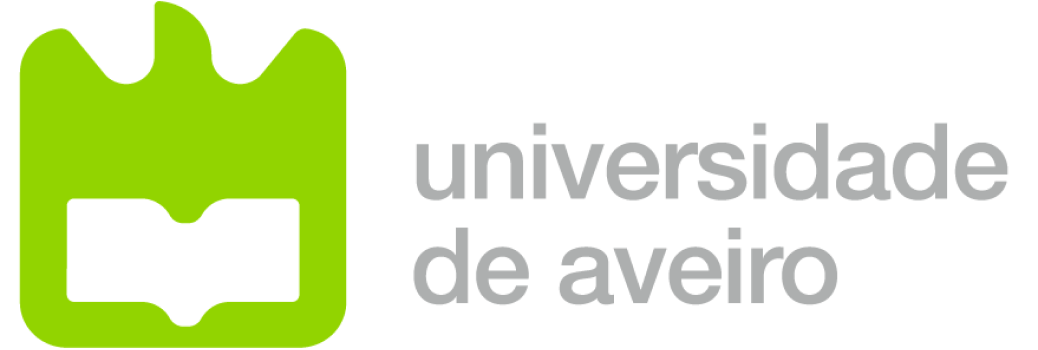
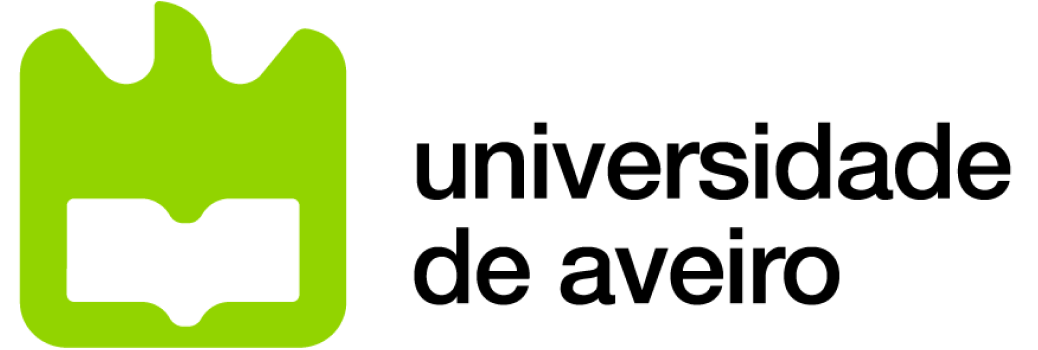
updating light mode

Changed region(s): [[0.4008, 0.3429, 0.9865, 0.5714], [0.4008, 0.6286, 0.8324, 0.8857]]

diff --git a/frontend/src/components/Graph/GraphComponent.js b/frontend/src/components/Graph/GraphComponent.js
@@ -164,7 +164,7 @@ const GraphComponent = () => {
                             categories: months,
                             labels: {
                                 style: {
-                                    color: '#fff',
+                                    color: '#616D7B',
                                     fontSize: '14px',
                                 },
                             },
@@ -174,20 +174,20 @@ const GraphComponent = () => {
                                 text: yAxisTitle,
                                 x: -10,
                                 style: {
-                                    color: '#fff',
+                                    color: '#616D7B',
                                     fontSize: '14px',
                                     fontFamily: 'Epilogue',
                                 },
                             },
                             labels: {
                                 style: {
-                                    color: '#fff',
+                                    color: '#616D7B',
                                     fontSize: '14px',
                                     fontFamily: 'Epilogue',
                                 },
                             },
                             // tickInterval: 5,
-                            gridLineColor: '#373C41',
+                            gridLineColor: 'rgb(217, 223, 228)',
                             gridLineWidth: 1.5,
                             min: Math.floor(minValue) === 0 ? 0 : Math.floor(minValue) - 1,
                             max: Math.floor(maxValue) + 1,
@@ -217,10 +217,12 @@ const GraphComponent = () => {
                             },
                             backgroundColor: '#fff',
                             borderRadius: 5,
+                            borderWidth: 2,
+                            borderColor: 'rgb(217, 223, 228)',
                             padding: 10,
                             shadow: false,
                             style: {
-                                color: 'rgb(39, 49, 57)',
+                                color: 'rgb(44, 44, 54)',
                                 fontSize: '12px',
                             }
                         },

diff --git a/frontend/src/pages/AboutProject/AboutProject.js b/frontend/src/pages/AboutProject/AboutProject.js
@@ -1,10 +1,10 @@
 import React from 'react';
 import styles from './AboutProject.module.css';
-import fct_dark from "../../assets/fct-dark.png";
-import pt_dark from "../../assets/pt-dark.png";
-import ua_dark from "../../assets/ua-dark.png";
-import cesam_dark from "../../assets/cesam-dark.png";
-import dfis_dark from "../../assets/dfis-dark.png";
+import fct from "../../assets/fct-light.png";
+import pt from "../../assets/pt-light.png";
+import ua from "../../assets/ua-light.png";
+import cesam from "../../assets/cesam-light.png";
+import dfis from "../../assets/dfis-light.png";
 import { useTranslation } from 'react-i18next';
 
 const AboutProject = () => {
@@ -42,13 +42,13 @@ const AboutProject = () => {
       </div>
       <div className={styles.logos}>
         <div className={styles.logosLeft}>
-          <img src={cesam_dark} alt="Centro de Estudos do Ambiente e do Mar" style={{ height: '98px', width: 'auto' }} />
-          <img src={dfis_dark} alt="Departamento de Física" style={{ height: '108px', width: 'auto' }} />
-          <img src={ua_dark} alt="Universidade de Aveiro" style={{ height: '50px', width: 'auto' }} />
+          <img src={cesam} alt="Centro de Estudos do Ambiente e do Mar" style={{ height: '98px', width: 'auto' }} />
+          <img src={dfis} alt="Departamento de Física" style={{ height: '108px', width: 'auto' }} />
+          <img src={ua} alt="Universidade de Aveiro" style={{ height: '50px', width: 'auto' }} />
         </div>
         <div className={styles.logosRight}>
-          <img src={fct_dark} alt="Fundação para a Ciência e a Tecnologia" style={{ height: '50px', width: 'auto' }} />
-          <img src={pt_dark} alt="República Portuguesa" style={{ height: '50px', width: 'auto' }} />
+          <img src={fct} alt="Fundação para a Ciência e a Tecnologia" style={{ height: '50px', width: 'auto' }} />
+          <img src={pt} alt="República Portuguesa" style={{ height: '50px', width: 'auto' }} />
         </div>
       </div>
 

diff --git a/frontend/src/components/Map/LeafletMap.js b/frontend/src/components/Map/LeafletMap.js
@@ -124,7 +124,7 @@ const LegendControl = ({ variable, url, variableKey }) => {
       const legendUrl = `${url}?REQUEST=GetLegendGraphic&LAYER=${variableKey}&PALETTE=${palette}&STYLES=${styles}&COLORSCALERANGE=${colorScaleRange}`;
 
       // Set the image as the legend
-      div.innerHTML += `<img src="${legendUrl}" alt="legend" style="height: ${isMobile ? '200px' : '220px'}; padding: 5px; background-color: white !important; border-radius: 5px;"/>`;
+      div.innerHTML += `<img src="${legendUrl}" alt="legend" style="height: ${isMobile ? '220px' : '240px'}; padding: 5px; background-color: white !important; border-radius: 5px;"/>`;
       return div;
     };
 
@@ -143,7 +143,7 @@ const CustomZoomControl = () => {
 
   useEffect(() => {
     const zoomControl = L.control.zoom({
-      position: 'topleft', // or customize placement
+      position: 'topleft',
     });
 
     map.addControl(zoomControl);
@@ -158,7 +158,10 @@ const CustomZoomControl = () => {
     // Apply custom styles
     zoomIn.style.cssText = `
       background-color: #fff !important;
-      color: rgb(39, 49, 57) !important;
+      color: rgb(44, 44, 54) !important;
+      background-color: #fff !important;
+      box-shadow: 0px 0px 6px rgba(0, 0, 0, 0.2) !important;
+      border: 1px solid #D9DFE4 !important;
       border-radius: 5px;
       font-size: 20px;
       margin: 5px;
@@ -166,7 +169,10 @@ const CustomZoomControl = () => {
 
     zoomOut.style.cssText = `
       background-color: #fff !important;
-      color: rgb(39, 49, 57) !important;
+      color: rgb(44, 44, 54) !important;
+      background-color: #fff !important;
+      box-shadow: 0px 0px 6px rgba(0, 0, 0, 0.2) !important;
+      border: 1px solid #D9DFE4 !important;
       border-radius: 5px;
       font-size: 20px;
       margin: 5px;

diff --git a/frontend/src/components/RadioOption/RadioOption.module.css b/frontend/src/components/RadioOption/RadioOption.module.css
@@ -10,7 +10,7 @@
 }
 
 .radioLabel {
-    color: #fff;
+    color: #2C2C36;
     font-size: 16px;
     font-weight: 400;
     display: flex;
@@ -21,8 +21,8 @@
 .customRadio {
     min-height: 20px;
     min-width: 20px;
-    border: 2px solid #fff;
-    /* background-color: rgb(39, 49, 57, 0.5); */
+    border: 2px solid #2C2C36;
+    /* background-color: #fff; */
     border-radius: 50%;
     margin-right: 10px;
     position: relative;
@@ -30,7 +30,7 @@
 }
 
 .radioInput:checked+.radioLabel .customRadio {
-    border-color: #fff;
+    border-color: #2C2C36;
 }
 
 .radioInput:checked+.radioLabel .customRadio::before {
@@ -42,7 +42,7 @@
     height: 10px;
     width: 10px;
     border-radius: 50%;
-    background-color: #fff;
+    background-color: #2C2C36;
 }
 
 @media (max-width: 768px) {
@@ -54,7 +54,7 @@
         min-height: 16px;
         min-width: 16px;
         margin-right: 8px;
-        border: 1px solid #fff;
+        border: 1px solid #2C2C36;
     }
 
     .radioOption {

diff --git a/frontend/src/components/Graph/GraphComponent.module.css b/frontend/src/components/Graph/GraphComponent.module.css
@@ -33,7 +33,7 @@
 }
 
 .chartTitle {
-    color: #fff;
+    color: rgb(44, 44, 54);
     font-size: 16px;
     font-weight: 500;
     text-align: center;
@@ -43,7 +43,7 @@
 }
 
 .chartSubtitle {
-    color: #9EAAB9;
+    color: #616D7B;
     font: 16px 'Epilogue';
     text-align: center;
     margin-bottom: 40px;
@@ -55,7 +55,7 @@
     display: flex;
     flex-direction: column;
     align-items: center;
-    background-color: rgb(39, 49, 57, 0.5);
+    background-color: rgb(217, 223, 228, 0.4);
     padding: 20px 24px;
     border-radius: 10px;
     margin-bottom: 40px;
@@ -73,7 +73,7 @@
     display: flex;
     flex-direction: row;
     align-items: center;
-    color: #fff;
+    color: #2C2C36;
     font: 14px 'Epilogue';
     font-weight: 400;
     text-align: justify;
@@ -82,7 +82,7 @@
 
 .chartDescriptionExample {
     width: 100%;
-    color: #9EAAB9;
+    color: #616D7B;
     font: 12px 'Epilogue';
     font-weight: 400;
     text-align: justify;

diff --git a/frontend/src/pages/MainLayout/MainLayout.module.css b/frontend/src/pages/MainLayout/MainLayout.module.css
@@ -15,7 +15,7 @@
 .leftColumn,
 .middleColumn,
 .rightColumn {
-  background-color: rgb(39, 49, 57, 0.5);
+  background-color: #fff;
   border-radius: 10px;
   padding: 20px;
   flex-grow: 1;
@@ -89,7 +89,7 @@
 }
 
 .activeMenuOption {
-  background-color: rgb(39, 49, 57, 0.5);
+  background-color: rgb(217, 223, 228, 0.4);
 }
 
 .menuOptionText {
@@ -99,12 +99,12 @@
 }
 
 .menuOption:hover {
-  background-color: rgb(39, 49, 57, 0.5);
+  background-color: rgb(217, 223, 228, 0.4);
 }
 
 .title {
   margin: 0;
-  color: #9EAAB9;
+  color: #616D7B;
   font-size: 16px;
   font-weight: 500;
   flex-grow: 1;
@@ -118,7 +118,7 @@
 
 .subtext {
   margin: 0;
-  color: #fff;
+  color: #2C2C36;
   font-size: 16px;
   font-weight: 400;
 }
@@ -152,7 +152,7 @@
 }
 
 .backButton:hover {
-  background-color: rgb(39, 49, 57, 0.5);
+  background-color: #fff;
 }
 
 @media (max-width: 768px) {

diff --git a/frontend/src/components/Header/Header.module.css b/frontend/src/components/Header/Header.module.css
@@ -34,7 +34,7 @@
     border: none;
     cursor: pointer;
     font-size: 16px;
-    color: #fff;
+    color: #2C2C36;
     border-radius: 5px;
     transition: background-color 0.3s ease;
     font-family: 'Epilogue';
@@ -44,8 +44,8 @@
 }
 
 .active {
-    background-color: #FFF;
-    color: #2B2B2B;
+    background-color: #2C2C36;
+    color: #fff;
 }
 
 .languageDropdown {
@@ -55,10 +55,11 @@
     padding: 10px 4px 8px 10px;
     border-radius: 5px;
     background: none;
-    color: #fff;
+    color: #2C2C36;
     border: none;
     cursor: pointer;
     font-family: 'Epilogue';
+    font-weight: 500;
     font-size: 16px;
     transition: background-color 0.3s ease;
 }

diff --git a/frontend/src/components/Header/Header.js b/frontend/src/components/Header/Header.js
@@ -5,8 +5,8 @@ import { Link, useLocation } from 'react-router-dom';
 import { useTranslation } from 'react-i18next';
 import styles from './Header.module.css';
 
-import desktopLogo from '../../assets/climact-dark.svg';
-import mobileLogo from '../../assets/climact-dark-mobile.svg'
+import desktopLogo from '../../assets/climact-light.svg';
+import mobileLogo from '../../assets/climact-light-mobile.svg'
 
 const Header = () => {
     const location = useLocation(); // Get the current location

diff --git a/frontend/src/components/VariableSubmenu/Variable.module.css b/frontend/src/components/VariableSubmenu/Variable.module.css
@@ -1,10 +1,10 @@
 .variableSubmenu {
-    color: #9EAAB9;
+    color: #616D7B;
     font-size: 16px;
     height: 100%;
     overflow-y: scroll;
     scrollbar-width: thin;
-    scrollbar-color: #9EAAB9 rgb(39, 49, 57, 0.5);
+    scrollbar-color: #616D7B #fff;
 }
 
 .variableItem {
@@ -24,7 +24,7 @@
 
 .variableOptions {
     margin-top: 10px;
-    /* background-color: rgb(39, 49, 57, 0.5); */
+    /* background-color: #fff; */
     border-radius: 5px;
 }
 

diff --git a/frontend/src/pages/AboutProject/AboutProject.module.css b/frontend/src/pages/AboutProject/AboutProject.module.css
@@ -9,6 +9,7 @@
     width: 100vw;
     margin: 0 auto;
     box-sizing: border-box;
+    color: #2C2C36
 }
 
 @media (max-width: 768px) {
@@ -20,7 +21,7 @@
 .leftColumn {
     width: 25%;
     padding-right: 20px;
-    border-right: 2px solid rgb(39, 49, 57, 0.5);
+    border-right: 2px solid rgb(97, 109, 123, 0.4);
     line-height: 2;
 }
 
@@ -38,7 +39,7 @@
 
 .text {
     line-height: 1.6;
-    color: #fff;
+    color: #2C2C36;
 }
 
 .logos {

diff --git a/frontend/src/App.css b/frontend/src/App.css
@@ -1,7 +1,7 @@
 .App {
   min-height: 100vh;
   max-width: 100vw;
-  background: linear-gradient(180deg, rgb(15, 23, 34) 0%, rgb(20, 20, 45) 20%); 
+  /* background: linear-gradient(180deg, rgb(15, 23, 34) 0%, rgb(20, 20, 45) 20%);  */
 }
 
 *,
@@ -12,7 +12,7 @@
 
 html,
 body {
-  background: rgb(20, 20, 45);
+  background: #D9DFE4;
   margin: 0;
   padding: 0;
 }

diff --git a/frontend/src/components/TemporalMeanSubmenu/TemporalMean.module.css b/frontend/src/components/TemporalMeanSubmenu/TemporalMean.module.css
@@ -7,7 +7,7 @@
 }
 
 .subheading {
-    color: #9EAAB9;
+    color: #616D7B;
     font-size: 16px;
     margin-bottom: 10px;
     margin-top: 0px;
